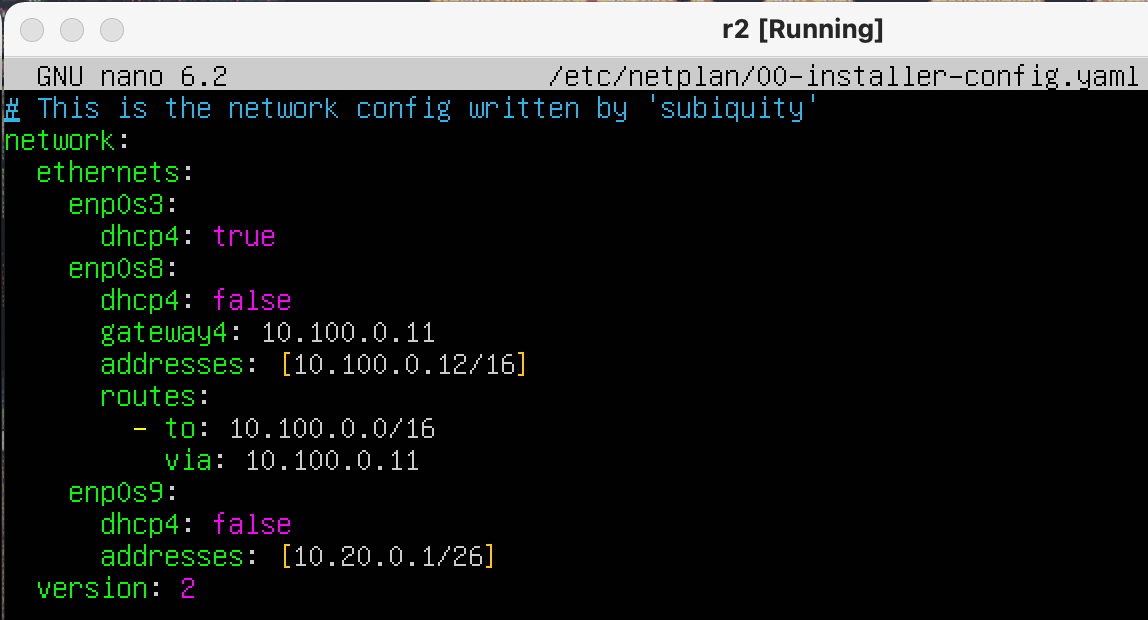
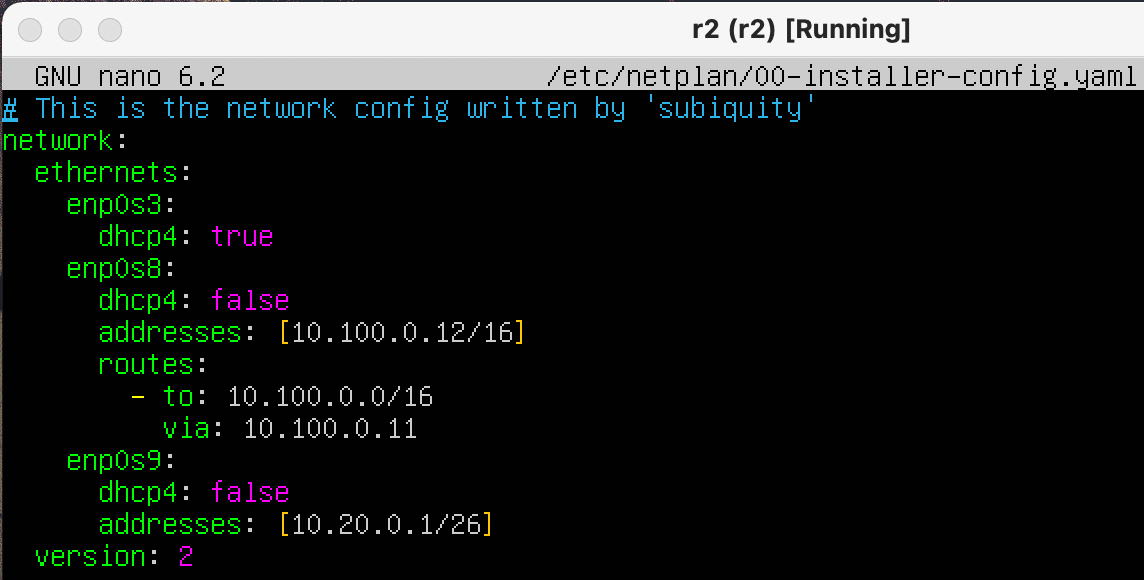
fix 6 task

diff --git a/src/report.md b/src/report.md
@@ -356,10 +356,6 @@ default via 10.10.0.1 dev eth0
 ```
 ##### Настроить маршрут по-умолчанию (шлюз) для рабочих станций. Для этого добавить `default` перед IP роутера в файле конфигураций
 - В отчёт поместить скрин с содержанием файла *etc/netplan/00-installer-config.yaml*.
-> - r1
->   - ![part1](./images/5_task/gateway_r1.png)
-> - r2
->   - ![part1](./images/5_task/gateway_r2.png)
 > - ws11
 >   - ![part1](./images/5_task/gateway_ws11.png)
 > - ws22
@@ -368,10 +364,6 @@ default via 10.10.0.1 dev eth0
 >   - ![part1](./images/5_task/gateway_ws21.png)
 ##### Вызвать `ip r` и показать, что добавился маршрут в таблицу маршрутизации
 - В отчёт поместить скрин с вызовом и выводом использованной команды.
-> - r1
->   - ![part1](./images/5_task/ipr_r1.png)
-> - r2
->   - ![part1](./images/5_task/ipr_r2.png)
 > - ws11
 >   - ![part1](./images/5_task/ipr_ws11.png)
 > - ws22
@@ -501,13 +493,17 @@ subnet 10.20.0.0 netmask 255.255.255.192
 >   - ![part1](./images/6_task/resolvr1.png)
 > - `systemctl restart isc-dhcp-server` 
 >   - ![part1](./images/6_task/sysr1.png)
-> - `ip a`
->   - ![part1](./images/6_task/ipa_ws11.png)
-<!-- > - `ping -c 5 10.20.0.2`
->   - ![part1](./images/6_task/pingws22.png) -->
+
 ##### Запросить с ws21 обновление ip адреса
 - В отчёте поместить скрины ip до и после обновления.
+> - "Убиваем" старый адрес `sudo dhclient -r enp0s8`
+> - Смотрим `ip a`
+>   - ![part1](./images/6_task/ipa_ws111.png)
+> - Запрашиваем новый IP `sudo dhclient enp0s8`
+> - Смотрим `ip a`
+>   - ![part1](./images/6_task/ipa_ws112.png)
 - В отчёте описать, какими опциями **DHCP** сервера пользовались в данном пункте.
+> Команда `sudo dhclient -r enp0s8` освобождает текущий адрес интерфейса enp0s8. Команда `sudo dhclient enp0s8` задает новый адрес указанному интерфейсу.
 
 ##### Сохранить дампы образов виртуальных машин
 **p.s. Ни в коем случае не сохранять дампы в гит!**
